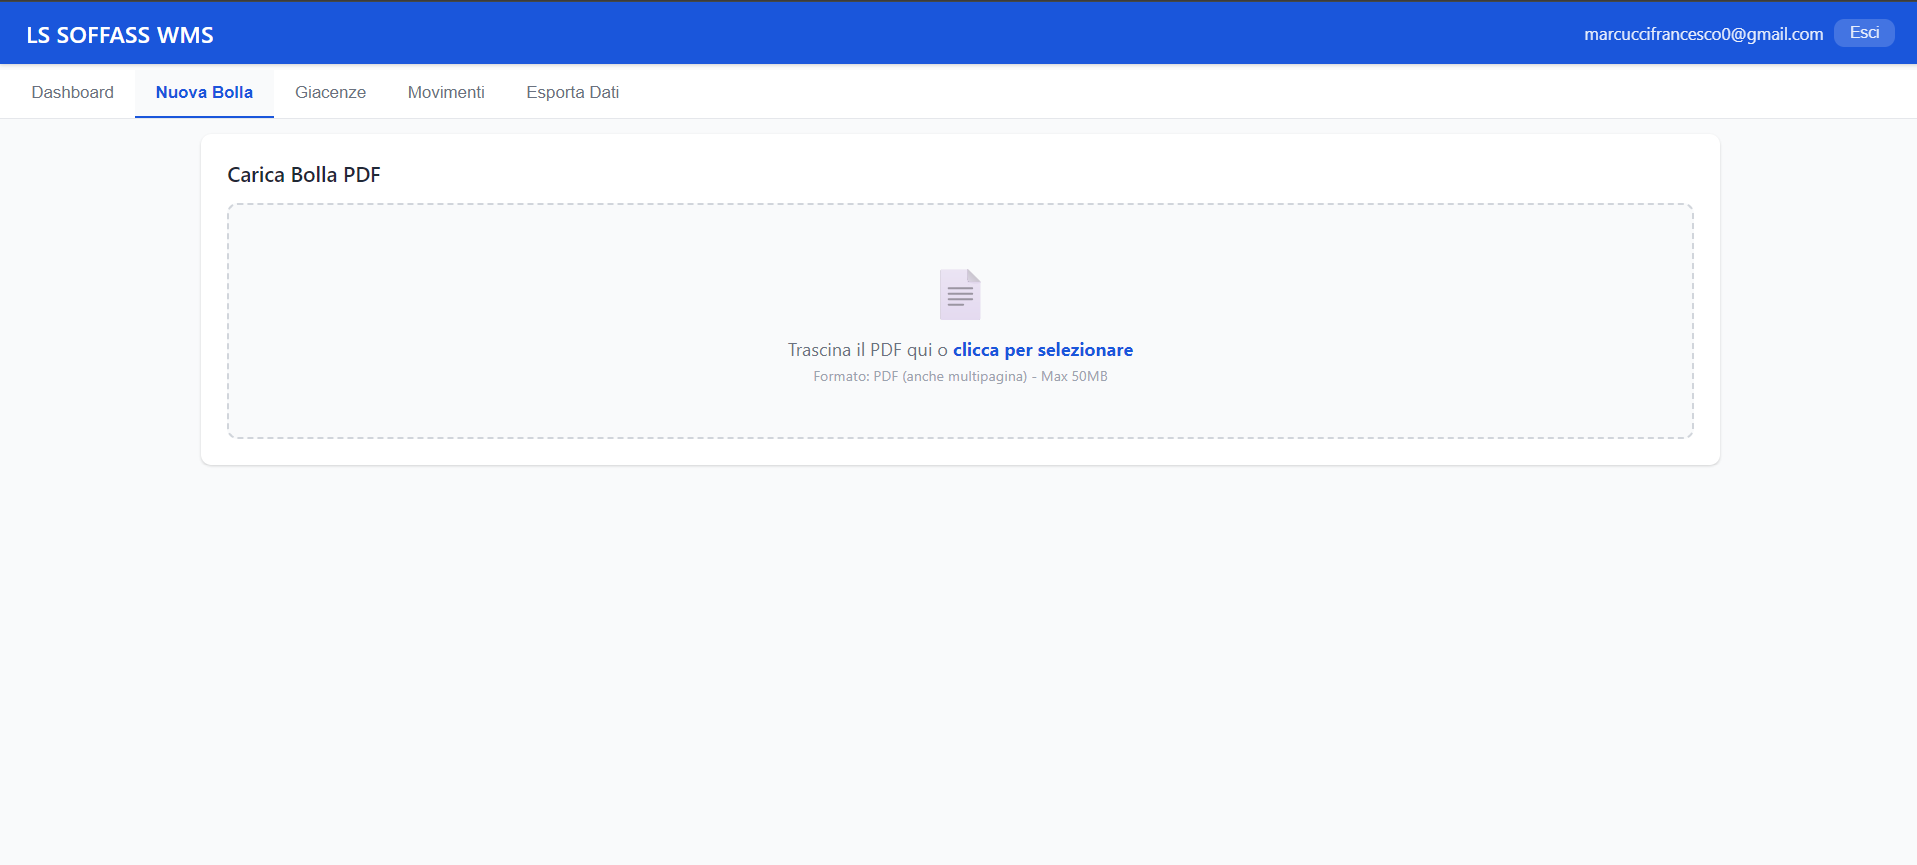
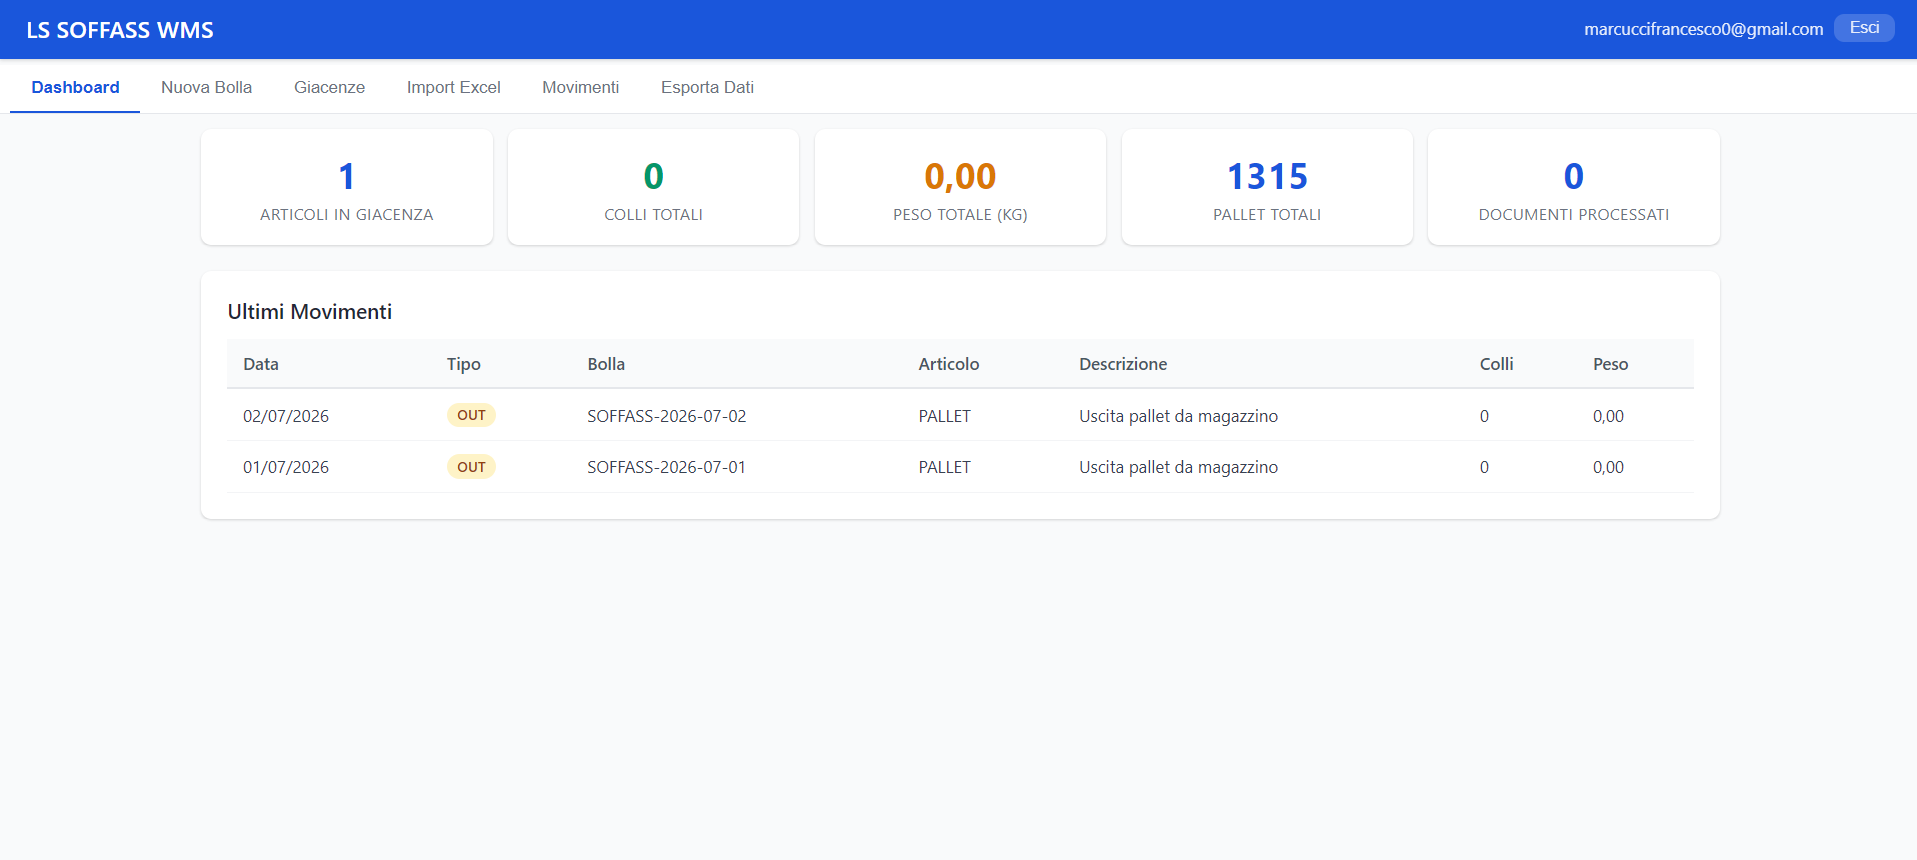
De-SaaS: remove metrics bar, DevOS flow, project badges, GitHub section; add 5 apps fact in About

diff --git a/style.css b/style.css
@@ -36,26 +36,10 @@ body.dark-mode .project-card { background: rgba(20,31,58,0.55); border-color: rg
 body.dark-mode .project-card:hover { border-color: rgba(59,130,246,0.18); }
 body.dark-mode .contact-item { background: rgba(20,31,58,0.55); border-color: rgba(226,232,240,0.06); }
 body.dark-mode .contact-item:hover { border-color: rgba(59,130,246,0.2); }
-body.dark-mode .metrics-bar { background: rgba(20,31,58,0.5); border-color: rgba(226,232,240,0.06); }
-body.dark-mode .metric-val { color: var(--primary); }
-body.dark-mode .metric-divider { background: var(--line); opacity: 0.25; }
-body.dark-mode .flow-step { background: rgba(20,31,58,0.55); border-color: rgba(226,232,240,0.06); }
-body.dark-mode .flow-label { color: var(--primary); }
-body.dark-mode .featured-image-fallback { background: rgba(20,31,58,0.6); border-color: var(--line); color: var(--muted); }
 body.dark-mode .project-img-fallback { background: rgba(20,31,58,0.6); color: var(--muted); }
-body.dark-mode .project-result-badge { background: rgba(34,197,94,0.15); color: #4ade80; }
-body.dark-mode .github-repo { background: rgba(20,31,58,0.55); border-color: rgba(226,232,240,0.06); }
-body.dark-mode .github-repo:hover { border-color: rgba(59,130,246,0.2); }
 body.dark-mode .about-quote { background: rgba(59,130,246,0.08); border-color: rgba(59,130,246,0.15); }
 body.dark-mode .header-link { color: var(--muted); }
 body.dark-mode .header-link:hover { color: var(--ink); }
-body.dark-mode .featured-metric { background: rgba(20,31,58,0.55); border-color: rgba(226,232,240,0.06); }
-body.dark-mode .featured-metric-val { color: var(--primary); }
-body.dark-mode .featured-arrow { background: rgba(59,130,246,0.12); border-color: rgba(59,130,246,0.25); color: #93c5fd; }
-body.dark-mode .pm-arrow { background: rgba(59,130,246,0.12); border-color: rgba(59,130,246,0.25); color: #93c5fd; }
-body.dark-mode .pm-before { color: var(--muted); }
-body.dark-mode .pm-after { color: #4ade80; }
-body.dark-mode .flow-arrow { background: rgba(59,130,246,0.12); border-color: rgba(59,130,246,0.25); color: #93c5fd; }
 
 #theme-toggle { background: none; border: none; font-size: 1.15rem; cursor: pointer; color: var(--muted); padding: 6px; display: flex; align-items: center; justify-content: center; border-radius: 8px; transition: color 0.2s; }
 #theme-toggle:hover { color: var(--ink); }
@@ -73,7 +57,7 @@ body {
     transition: background-color 0.3s ease, color 0.3s ease;
 }
 
-h1, h2, h3, .logo, .btn, .metric-val, .featured-metric-val { font-family: var(--font-display); }
+h1, h2, h3, .logo, .btn { font-family: var(--font-display); }
 a { color: inherit; }
 img { max-width: 100%; height: auto; display: block; }
 
@@ -127,71 +111,10 @@ img { max-width: 100%; height: auto; display: block; }
 .btn-secondary { color: var(--primary); background: #edf3ff; border-color: #c8dbff; }
 .btn-sm { padding: 8px 16px; font-size: 0.83rem; }
 
-/* METRICS BAR */
-.metrics-bar {
-    display: flex; justify-content: center; align-items: center;
-    padding: 22px 32px; margin-top: -12px; margin-bottom: 48px;
-    background: rgba(255,255,255,0.6); border: 1px solid var(--line);
-    border-radius: var(--radius-md); max-width: 800px; backdrop-filter: blur(4px);
-}
-.metric-item { display: flex; flex-direction: column; align-items: center; flex: 1; padding: 4px 12px; }
-.metric-val { font-size: 1.5rem; font-weight: 700; color: var(--primary); line-height: 1.1; white-space: nowrap; }
-.metric-lbl { font-size: 0.7rem; color: var(--muted); font-weight: 600; text-transform: uppercase; letter-spacing: 0.06em; margin-top: 3px; }
-.metric-divider { width: 1px; height: 34px; background: var(--line); flex-shrink: 0; opacity: 0.4; }
-
 /* SECTION */
 .section-eyebrow { margin: 0 0 4px; font-size: 0.76rem; font-weight: 600; text-transform: uppercase; letter-spacing: 0.13em; color: var(--muted); }
 .section { margin-top: 28px; padding: 36px; border: 1px solid var(--line); border-radius: var(--radius-lg); background: rgba(255,255,255,0.65); backdrop-filter: blur(4px); box-shadow: var(--shadow-sm); }
 .section-title-lg { margin: 0 0 6px; font-size: clamp(1.5rem, 3.5vw, 2.2rem); letter-spacing: -0.02em; }
-
-/* FEATURED */
-.featured-section { padding: 40px; }
-.featured-image { border-radius: var(--radius-md); overflow: hidden; border: 1px solid var(--line); box-shadow: var(--shadow-sm); margin: 16px 0 24px; }
-.featured-image img { width: 100%; display: block; }
-.featured-image-fallback {
-    display: none;
-    align-items: center; justify-content: center;
-    padding: 60px 24px; background: #f0f4ff; border: 2px dashed var(--line);
-    color: var(--muted); min-height: 300px;
-}
-.featured-image-fallback:only-child { display: flex; }
-.featured-image img:not([style*="display: none"]) + .featured-image-fallback { display: none; }
-.featured-image-fallback i { font-size: 2.8rem; color: var(--primary); opacity: 0.3; }
-
-.devos-flow { display: grid; grid-template-columns: 1fr auto 1fr auto 1fr; gap: 12px; align-items: start; margin-bottom: 24px; }
-.flow-step { padding: 16px; border: 1px solid var(--line); border-radius: var(--radius-sm); background: rgba(255,255,255,0.5); }
-.flow-label { display: block; font-family: var(--font-display); font-size: 0.72rem; font-weight: 700; text-transform: uppercase; letter-spacing: 0.08em; color: var(--primary); margin-bottom: 4px; }
-.flow-step p { margin: 0; font-size: 0.88rem; color: var(--muted); line-height: 1.5; }
-.flow-arrow {
-    display: flex; align-items: center; justify-content: center;
-    color: var(--primary); font-size: 1.3rem; font-weight: 700;
-    width: 40px; height: 40px; min-width: 40px;
-    background: rgba(15,91,216,0.1); border-radius: 50%;
-    border: 1px solid rgba(15,91,216,0.2);
-    align-self: center;
-    transition: background 0.2s ease, transform 0.2s ease;
-}
-
-.flow-arrow:hover {
-    background: rgba(15,91,216,0.18);
-    transform: scale(1.1);
-}
-
-.featured-metric {
-    display: flex; align-items: center; justify-content: center; gap: 20px;
-    padding: 18px; border: 1px solid var(--line); border-radius: var(--radius-sm);
-    background: rgba(255,255,255,0.5); margin-bottom: 20px;
-}
-
-.featured-arrow {
-    font-size: 1.2rem; font-weight: 700; color: var(--primary);
-    width: 36px; height: 36px;
-    display: flex; align-items: center; justify-content: center;
-    background: rgba(15,91,216,0.1); border-radius: 50%;
-    border: 1px solid rgba(15,91,216,0.2);
-}
-
-.featured-metric-val { font-size: 1.8rem; font-weight: 700; color: var(--primary); }
 
 /* PROJECTS */
 .projects-list { display: grid; gap: 16px; margin-top: 16px; }
@@ -214,13 +137,6 @@ img { max-width: 100%; height: auto; display: block; }
 .project-visual img { width: 100%; height: 100%; object-fit: cover; transition: transform 0.4s ease; }
 .project-card:hover .project-visual img { transform: scale(1.05); }
 
-.project-result-badge {
-    position: absolute; top: 10px; left: 10px;
-    background: rgba(22,163,74,0.12); color: #16a34a;
-    font-size: 0.7rem; font-weight: 700; padding: 4px 10px;
-    border-radius: 999px; text-transform: uppercase; letter-spacing: 0.05em; z-index: 2;
-}
-
 .project-img-fallback {
     display: flex; align-items: center; justify-content: center;
     width: 100%; height: 100%; min-height: 180px;
@@ -236,32 +152,6 @@ img { max-width: 100%; height: auto; display: block; }
     letter-spacing: 0.06em; color: var(--primary); margin-bottom: 6px;
     opacity: 0.8;
 }
-
-.project-metric { display: flex; align-items: center; gap: 8px; font-size: 0.82rem; font-weight: 600; }
-.pm-before { color: var(--muted); text-decoration: line-through; opacity: 0.7; }
-.pm-after { color: #16a34a; }
-.pm-arrow {
-    color: var(--primary); font-size: 0.85rem; font-weight: 700;
-    width: 22px; height: 22px;
-    display: flex; align-items: center; justify-content: center;
-    background: rgba(15,91,216,0.1); border-radius: 50%;
-    border: 1px solid rgba(15,91,216,0.15);
-}
-
-/* GITHUB */
-.github-grid { display: grid; grid-template-columns: repeat(3, 1fr); gap: 14px; margin-top: 8px; }
-.github-repo {
-    text-decoration: none; border: 1px solid var(--line); border-radius: var(--radius-sm);
-    padding: 16px; background: rgba(255,255,255,0.5);
-    transition: transform 0.25s ease, box-shadow 0.25s ease, border-color 0.25s;
-}
-.github-repo:hover { transform: translateY(-3px); box-shadow: var(--shadow-sm); border-color: #c8d4ef; }
-.gh-header { display: flex; align-items: center; gap: 8px; margin-bottom: 6px; color: var(--primary); font-weight: 700; font-size: 0.9rem; }
-.gh-header span { color: var(--ink); }
-.gh-desc { font-size: 0.8rem; color: var(--muted); margin: 0 0 10px; }
-.gh-footer { font-size: 0.73rem; color: var(--muted); }
-.gh-lang { display: flex; align-items: center; gap: 4px; }
-.lang-dot { width: 10px; height: 10px; border-radius: 50%; display: inline-block; }
 
 /* ABOUT */
 .about-content { max-width: 72ch; }
@@ -302,22 +192,14 @@ img { max-width: 100%; height: auto; display: block; }
 @media (max-width: 900px) {
     .project-card, .project-card-lg { grid-template-columns: 1fr; }
     .project-visual { min-height: 200px; }
-    .devos-flow { grid-template-columns: 1fr; gap: 12px; }
-    .flow-arrow { transform: rotate(90deg); margin: -4px 0; }
-    .metrics-bar { flex-wrap: wrap; padding: 16px 20px; gap: 8px; }
-    .metric-divider { display: none; }
-    .metric-item { min-width: 80px; flex: 1 1 40%; }
-    .github-grid { grid-template-columns: repeat(2, 1fr); }
 }
 
 @media (max-width: 700px) {
     .contact-grid { grid-template-columns: repeat(3, 1fr); }
-    .github-grid { grid-template-columns: 1fr; }
 }
 
 @media (max-width: 600px) {
     .section { padding: 18px; }
-    .featured-section { padding: 18px; }
     .site-header { gap: 6px; padding: 10px 12px; }
     .main-nav { gap: 12px; overflow-x: auto; }
     .main-nav a { font-size: 0.78rem; white-space: nowrap; }
@@ -329,17 +211,8 @@ img { max-width: 100%; height: auto; display: block; }
     .project-card-lg .project-visual { min-height: 180px; }
     .project-info { padding: 14px; }
     .project-info h3 { font-size: 1.05rem; }
-    .flow-step { padding: 12px; }
-    .flow-step p { font-size: 0.82rem; }
-    .flow-arrow { width: 34px; height: 34px; min-width: 34px; font-size: 1.1rem; }
-    .featured-metric { gap: 10px; padding: 14px; flex-wrap: wrap; }
-    .featured-metric-val { font-size: 1.3rem; }
-    .featured-arrow { width: 30px; height: 30px; font-size: 1rem; }
     .contact-grid { grid-template-columns: 1fr; }
     .header-actions { gap: 8px; }
-    .metrics-bar { margin-top: 0; }
-    .pm-arrow { width: 18px; height: 18px; font-size: 0.7rem; }
-    .project-metric { font-size: 0.78rem; }
 }
 
 @media (prefers-reduced-motion: reduce) {
@@ -356,5 +229,4 @@ img { max-width: 100%; height: auto; display: block; }
     .hero-title { font-size: 1.9rem; }
     .hero-sub { font-size: 1rem; }
     .hero-desc { font-size: 0.85rem; }
-    .metric-val { font-size: 1.2rem; }
 }

diff --git a/index.html b/index.html
@@ -47,91 +47,42 @@
       </div>
     </section>
 
-    <!-- METRICS -->
-    <section class="metrics-bar container">
-      <div class="metric-item">
-        <span class="metric-val">~98%</span>
-        <span class="metric-lbl">OCR Accuracy</span>
-      </div>
-      <div class="metric-divider"></div>
-      <div class="metric-item">
-        <span class="metric-val">3</span>
-        <span class="metric-lbl">Real Clients</span>
-      </div>
-      <div class="metric-divider"></div>
-      <div class="metric-item">
-        <span class="metric-val">5</span>
-        <span class="metric-lbl">Apps Shipped</span>
-      </div>
-      <div class="metric-divider"></div>
-      <div class="metric-item">
-        <span class="metric-val">2</span>
-        <span class="metric-lbl">Years Coding</span>
-      </div>
-    </section>
-
-    <!-- DEVOS — GIANT -->
-    <section class="container section featured-section reveal" id="work">
-      <p class="section-eyebrow">Featured</p>
-      <h2 class="section-title-lg">DevOS</h2>
-      <div class="featured-image">
-        <img src="screenshot-devos.png" alt="DevOS" loading="lazy" onerror="this.style.display='none'" />
-        <div class="featured-image-fallback"><i class="fa-solid fa-terminal"></i></div>
-      </div>
-      <div class="devos-flow">
-        <div class="flow-step">
-          <span class="flow-label">Problem</span>
-          <p>Ogni volta che dovevo aggiornare un ambiente di sviluppo, facevo tutto a mano: patch, test, rollback se qualcosa andava storto. 30 minuti persi ogni volta.</p>
-        </div>
-        <div class="flow-arrow">→</div>
-        <div class="flow-step">
-          <span class="flow-label">Solution</span>
-          <p>Un agente Node.js che orchestra script PowerShell: applica patch, valida i risultati, e se qualcosa fallisce fa rollback automatico.</p>
-        </div>
-        <div class="flow-arrow">→</div>
-        <div class="flow-step">
-          <span class="flow-label">Result</span>
-          <p>Ora il setup che prima richiedeva mezz'ora si fa in pochi secondi, senza intervento manuale.</p>
-        </div>
-      </div>
-      <div class="featured-metric">
-        <span class="featured-metric-val">30 min</span>
-        <span class="featured-arrow">→</span>
-        <span class="featured-metric-val">2 sec</span>
-      </div>
-      <a class="btn btn-secondary" href="https://github.com/Marcu08/DevOS" target="_blank"><i class="fa-brands fa-github"></i> View on GitHub</a>
-    </section>
-
-    <!-- PROJECTS -->
-    <section class="container section reveal">
-      <p class="section-eyebrow">Projects</p>
+    <!-- WORK -->
+    <section class="container section reveal" id="work">
+      <p class="section-eyebrow">Work</p>
       <h2 class="section-title-lg">Problems I've solved</h2>
 
       <div class="projects-list">
 
-        <!-- OCR -->
+        <!-- DEVOS -->
         <article class="project-card project-card-lg">
           <div class="project-visual">
-            <div class="project-result-badge">~98% accuracy</div>
+            <img src="screenshot-devos.png" alt="DevOS" loading="lazy" onerror="this.style.display='none'" />
+            <div class="project-img-fallback"><i class="fa-solid fa-terminal"></i></div>
+          </div>
+          <div class="project-info">
+            <h3>DevOS</h3>
+            <p>Ogni volta che dovevo aggiornare un ambiente di sviluppo, facevo tutto a mano: patch, test, rollback. 30 minuti persi ogni volta. Ho costruito un agente Node.js che orchestra script PowerShell: applica patch, valida i risultati, e se qualcosa fallisce fa rollback automatico. Il setup che prima richiedeva mezz'ora si fa in pochi secondi.</p>
+            <a class="btn btn-secondary btn-sm" href="https://github.com/Marcu08/DevOS" target="_blank"><i class="fa-brands fa-github"></i> Code</a>
+          </div>
+        </article>
+
+        <!-- OCR -->
+        <article class="project-card">
+          <div class="project-visual">
             <img src="screenshot-ocr.png" alt="OCR Scanner" loading="lazy" onerror="this.style.display='none'" />
             <div class="project-img-fallback"><i class="fa-solid fa-file-image"></i></div>
           </div>
           <div class="project-info">
             <div class="project-context">Sviluppato durante il mio impiego presso Logistic Solution</div>
             <h3>OCR Scanner</h3>
-            <p>Inserire manualmente migliaia di dati da documenti cartacei era lento e soggetto a errori. Ho costruito una pipeline che preprocessa le immagini, riconosce il testo e valida i risultati automaticamente.</p>
-            <div class="project-metric">
-              <span class="pm-before">Inserimento manuale</span>
-              <span class="pm-arrow">→</span>
-              <span class="pm-after">Automazione ~98%</span>
-            </div>
+            <p>Inserire manualmente migliaia di dati da documenti cartacei era lento e soggetto a errori. Ho costruito una pipeline che preprocessa le immagini, riconosce il testo e valida i risultati automaticamente — con un tasso di accuratezza di circa il 98%.</p>
           </div>
         </article>
 
         <!-- LS-SOFFAS -->
         <article class="project-card">
           <div class="project-visual">
-            <div class="project-result-badge">PDF → Database</div>
             <img src="screenshot-ls-Soffass.png" alt="LS-SOFFAS" loading="lazy" />
           </div>
           <div class="project-info">
@@ -145,18 +96,12 @@
         <!-- SISTEMA FERIE -->
         <article class="project-card">
           <div class="project-visual">
-            <div class="project-result-badge">Excel → Web</div>
             <img src="screenshot-gestione-ferie.png" alt="Sistema Ferie" loading="lazy" onerror="this.style.display='none'" />
             <div class="project-img-fallback"><i class="fa-solid fa-calendar"></i></div>
           </div>
           <div class="project-info">
             <h3>Sistema Ferie</h3>
             <p>Le richieste ferie si facevano su Excel condiviso, con mille problemi di duplicati e conferme. L'ho trasformato in una piattaforma web con workflow di approvazione.</p>
-            <div class="project-metric">
-              <span class="pm-before">Excel</span>
-              <span class="pm-arrow">→</span>
-              <span class="pm-after">Piattaforma web</span>
-            </div>
           </div>
         </article>
 
@@ -189,36 +134,12 @@
       </div>
     </section>
 
-    <!-- GITHUB -->
-    <section class="container section reveal">
-      <p class="section-eyebrow">Open Source</p>
-      <h2 class="section-title-lg">GitHub Activity</h2>
-      <div class="github-grid">
-        <a class="github-repo" href="https://github.com/Marcu08/DevOS" target="_blank">
-          <div class="gh-header"><i class="fa-regular fa-folder"></i><span>DevOS</span></div>
-          <p class="gh-desc">Automation framework for dev environments</p>
-          <div class="gh-footer"><span class="gh-lang"><span class="lang-dot" style="background:#f1e05a"></span>JavaScript</span></div>
-        </a>
-        <a class="github-repo" href="https://github.com/Marcu08/LS-SOFFAS" target="_blank">
-          <div class="gh-header"><i class="fa-regular fa-folder"></i><span>LS-SOFFAS</span></div>
-          <p class="gh-desc">Data management web application</p>
-          <div class="gh-footer"><span class="gh-lang"><span class="lang-dot" style="background:#f1e05a"></span>JavaScript</span></div>
-        </a>
-        <a class="github-repo" href="https://github.com/Marcu08/Sito_Pratico_TPSIT_Film" target="_blank">
-          <div class="gh-header"><i class="fa-regular fa-folder"></i><span>TPSIT Film</span></div>
-          <p class="gh-desc">Film catalog web application</p>
-          <div class="gh-footer"><span class="gh-lang"><span class="lang-dot" style="background:#e34c26"></span>HTML</span></div>
-        </a>
-      </div>
-      <a class="btn btn-secondary btn-sm" href="https://github.com/Marcu08" target="_blank" style="margin-top:16px"><i class="fa-brands fa-github"></i> All repositories</a>
-    </section>
-
     <!-- ABOUT -->
     <section id="about" class="container section reveal">
       <p class="section-eyebrow">About</p>
       <h2 class="section-title-lg">Developer by choice</h2>
       <div class="about-content">
-        <p>Studio ITIS e lavoro come sviluppatore presso Logistic Solution, dove mi occupo di sviluppo web e automazione di processi aziendali. Ho costruito internamente l'OCR Scanner e LS-SOFFAS per digitalizzare i flussi di lavoro dell'azienda.</p>
+        <p>Studio ITIS e lavoro come sviluppatore presso Logistic Solution, dove mi occupo di sviluppo web e automazione di processi aziendali. Ho costruito internamente l'OCR Scanner e LS-SOFFAS per digitalizzare i flussi di lavoro dell'azienda. Nell'ultimo anno e mezzo ho lavorato su 5 applicazioni diverse.</p>
         <p>Faccio anche sviluppo web e social media management per Team Fabiana Luperini, una squadra ciclistica femminile giovanile.</p>
         <p>Nel tempo libero sviluppo DevOS, un tool di automazione per ambienti di sviluppo, e altri progetti open source. Mi piace costruire software che elimina lavoro manuale e automatizza processi ripetitivi.</p>
         <p>Uso <strong>PHP</strong>, <strong>Python</strong>, <strong>C++</strong>, <strong>SQL</strong>, <strong>Supabase</strong> — ma la vera competenza è sapere <em>quando</em> e <em>perché</em> usarli.</p>